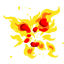
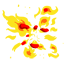
Basic animation done... it's a bit fast though

diff --git a/Explosion/Explosion.java b/Explosion/Explosion.java
@@ -14,6 +14,7 @@ public class Explosion extends Actor
      * Can be used anywhere in methods below.
      */
     private GreenfootImage explosion[];
+    private int frames;
 
     /**
      * Constructor
@@ -37,6 +38,9 @@ public class Explosion extends Actor
         {
             explosion[i] = new GreenfootImage("explosion-" + i + ".png");
         }
+        
+        // Set the frame counter
+        frames = 0;
     }
 
     /**
@@ -45,6 +49,19 @@ public class Explosion extends Actor
      */
     public void act() 
     {
-        // Add your action code here.
+       // Track frames / time in scenario
+       frames += 1;
+        
+       // Change the image of the actor to create an animation
+       if (frames < explosion.length)
+       {
+           this.setImage(explosion[frames]);
+       }
+       else
+       {
+           // Remove the explosion
+           World myWorld = getWorld();
+           myWorld.removeObject(this);
+       }
     }    
 }
